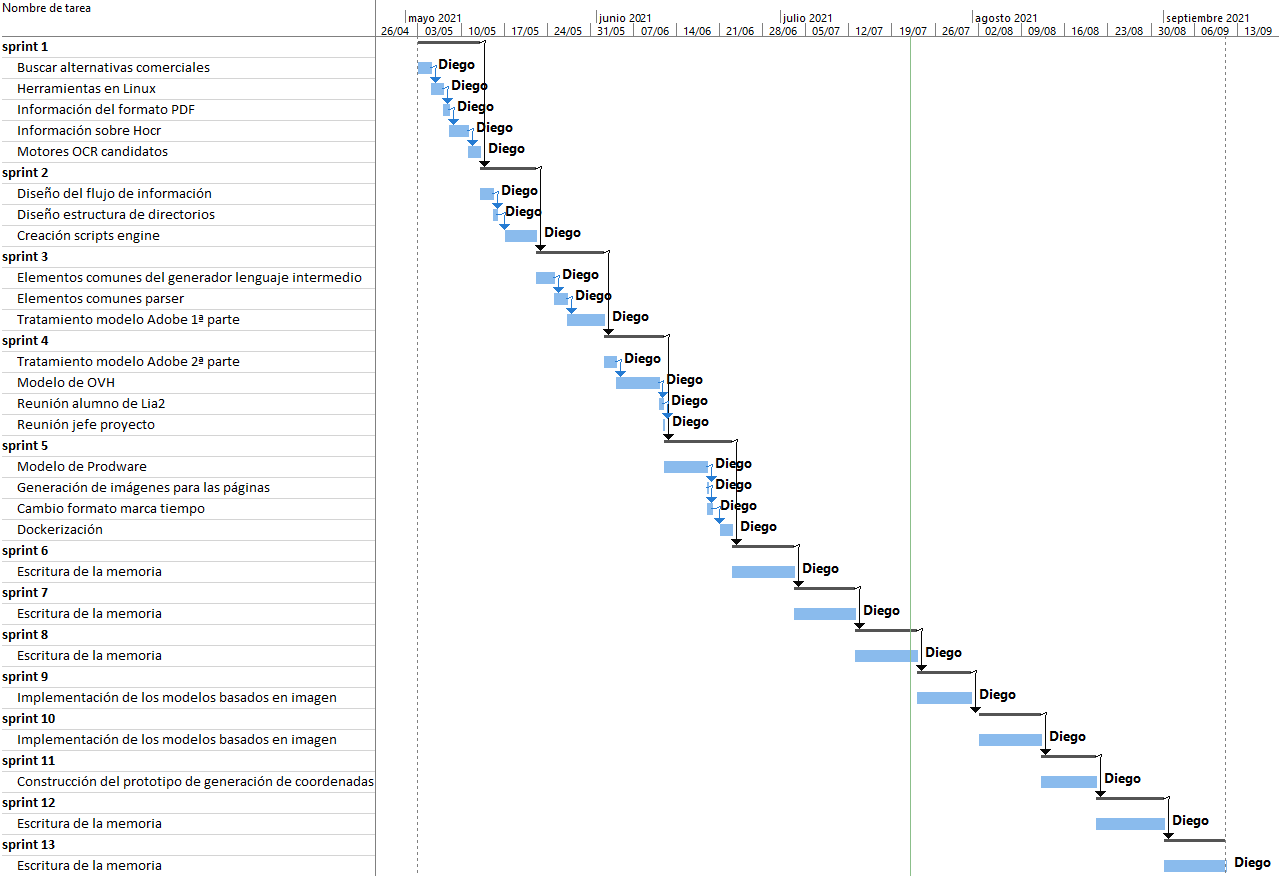
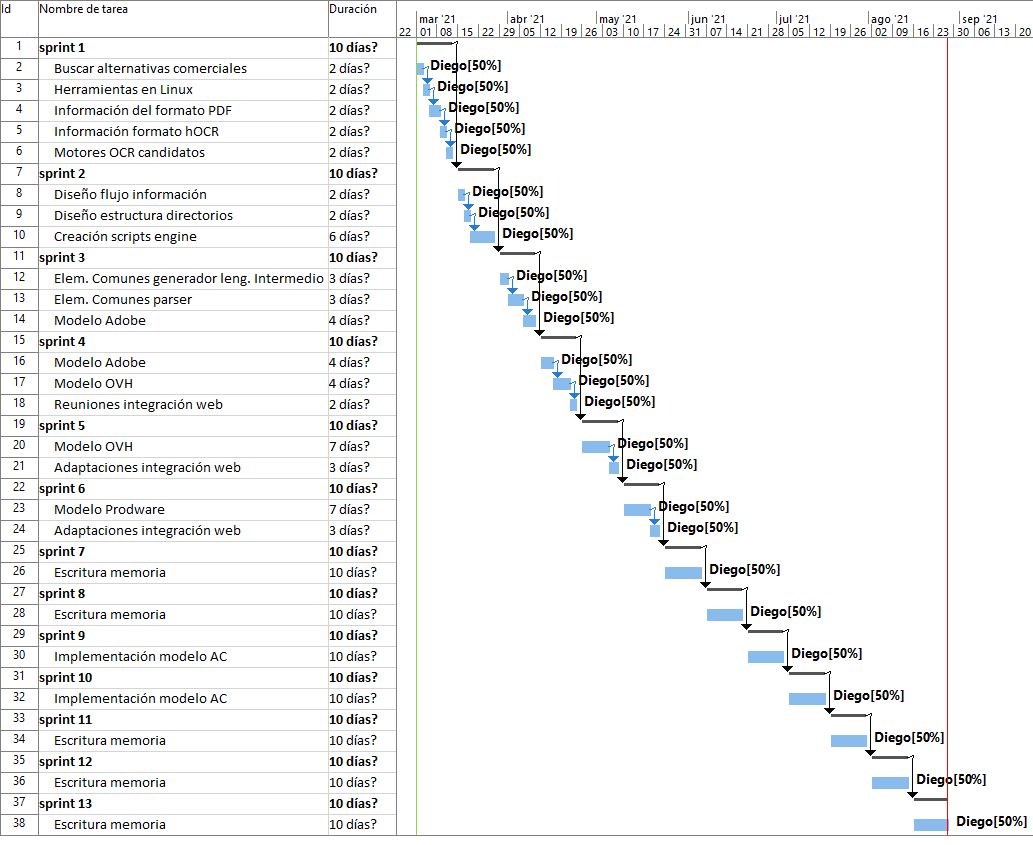
Completa planificación

Changed region(s): [[0.0, 0.0, 1.0, 1.0], [0.6815, 0.9846, 0.7125, 1.0]]

diff --git a/contido/f-planificacion.tex b/contido/f-planificacion.tex
@@ -53,7 +53,7 @@ De los recursos utilizados para el proyecto se deducen directamente los costes e
 
 \section{Planificación temporal inicial}
 
-En la Imagen \ref{fig:gantt-inicial} se presenta el diagrama de Gantt inicial de la planificación con el desglose de tareas. Una de las dificultades para la planificación consistió en no saber en qué momento del proyecto sería necesario abordar la integración con la interfaz web. Inicialmente se asumió que ocurriría con posterioridad al trabajo de desarrollo y antes de comenzar la escritura de la memoria. En este plan inicial se contemplaban 520 horas de trabajo.
+En la Imagen \ref{fig:gantt-inicial} se presenta el diagrama de Gantt inicial de la planificación con el desglose de tareas. Una de las dificultades para la planificación consistió en no saber en qué momento del proyecto sería necesario abordar la integración con la interfaz web. Inicialmente se asumió que ocurriría durante el trabajo de desarrollo y antes de comenzar la escritura de la memoria. En este plan inicial se contemplaban 520 horas de trabajo.
 
 \begin{figure}[hp!]
     \centering
@@ -88,15 +88,19 @@ En el Sprint 3 se crearon las implementaciones iniciales del generador de lengua
 
 \subsection{Sprint 4}
 
-En este Sprint se añadió soporte para la generación de código intermedio y parsing del modelo de OVH. También tuvieron lugar las primeras reuniones de trabajo para explicar el proyecto y decidir las adaptaciones necesarias de cara al prototipo.
+En este Sprint se añadió soporte para la generación de código intermedio y parsing del modelo de Adobe y parte del de OVH. También tuvieron lugar las primeras reuniones de trabajo para explicar el proyecto y decidir las adaptaciones necesarias de cara al prototipo.
 
 \subsection{Sprint 5}
 
-Se completó el modelo de documento del proveedor Prodware. Además se abordaron de forma paralela las tareas relacionadas con el prototipo web. Hubo varias reuniones para facilitar la implementación de aspectos que no habían sido considerados, como  la necesidad de generar imágenes de las páginas individuales de cada documento, cambio del formato de la marca de tiempo para mejorar la compatibilidad entre sistemas de ficheros y la dockerización de la aplicación.
+Se completó el modelo de documento del proveedor OVH. Además se abordaron de forma paralela las tareas relacionadas con el prototipo web. Hubo varias reuniones para facilitar la implementación de aspectos que no habían sido considerados, como  la necesidad de generar imágenes de las páginas individuales de cada documento, cambio del formato de la marca de tiempo para mejorar la compatibilidad entre sistemas de ficheros y la dockerización de la aplicación.
 
-\subsection{Sprints 6, 7 y 8}
+\subsection{Sprint 6}
 
-En estas tres semanas se abordó la escritura inicial de la memoria, con la previsión de dejar tiempo al final del proyecto para completarla.
+El Sprint 6 se dedicó a realizar el modelo de Prodware y a finalizar las integración con la aplicación web.
+
+\subsection{Sprints 7 y 8}
+
+En estos dos Sprints se abordó la escritura inicial de la memoria, con la previsión de dejar tiempo al final del proyecto para completarla.
 
 \subsection{Sprint 9}
 
@@ -106,12 +110,17 @@ Implementación del modelo de AC, basado en imagen.
 
 Implementación del modelo de AC, basado en imagen.
 
-\subsection{Sprints 11 al 14}
+\subsection{Sprints 11 al 15}
 
-Los últimos Sprints se dedicaron a finalizar la escritura de la memoria.
+Los últimos Sprints se dedicaron a completar la escritura de la memoria.
 
 \section{Planificación temporal final}
 
-La planificación final tuvo un desvío claro en la elaboración de la memoria, que finalmente llevó dos semanas más de las previstas. Así mismo, para ir incorporando los sucesivos documentos fue necesario cierto retrabajo en la parte del generador de código intermedio, al tener que ampliar sus funcionalidades, manteniendo los resultados conseguidos hasta el momento.
+La planificación final tuvo un desvío claro en la elaboración de la memoria, que finalmente llevó cuatro semanas más de las previstas (2 sprints). Así mismo, para ir incorporando los sucesivos documentos fue necesario cierto retrabajo en la parte del generador de código intermedio, al tener que ampliar sus funcionalidades, manteniendo los resultados conseguidos hasta el momento. Las reuniones de integración sucedieron aproximadamente dentro de lo esperado, antes de dar comienzo a la primera parte de la escritura de la memoria.
 
-% TODO explicar que las reuniones se adelantaron a las fechas previstas
+\begin{figure}[hp!]
+	\centering
+	\includegraphics[angle=0,width=1.0\textwidth]{imaxes/f-planificacion/gantt-final.png}
+	\caption{Diagrama de Gantt del final del proyecto}
+	\label{fig:gantt-final}
+\end{figure}
